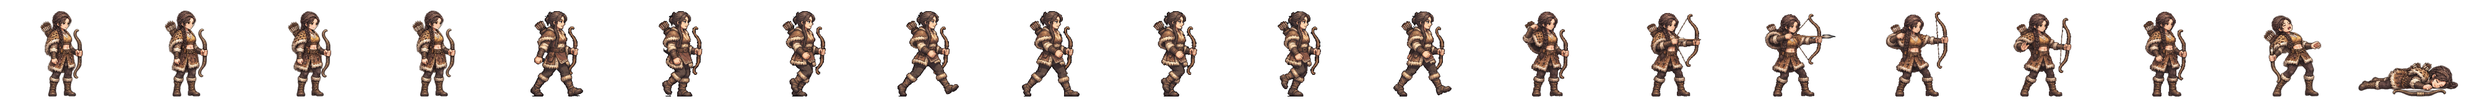
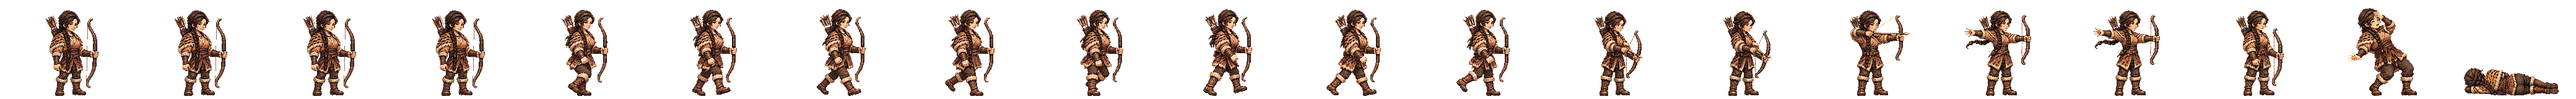
불래 박달 · 부여 다래 새 전투 띠를 게임에 (활 · 새 활 쏘기 · 맞음 네 칸 · 다래 개성 동작) · 박달은 개성 동작 거절이라 없이 · 맞음만 붙은 띠를 개성 동작으로 세던 검사 고침
Claude-Session: https://claude.ai/code/session_01TRiuN7s6aDfSnaHxrkctmU

Changed region(s): [[0.4688, 0.0938, 1.0, 0.9688], [0.0, 0.0938, 0.4375, 0.9688]]

diff --git a/src/realm/data/spritePx.ts b/src/realm/data/spritePx.ts
@@ -1,3 +1,3 @@
 /** public/realm/anim-px/manifest.json 의 사본 — tools/sprite-normalize.mjs 가 만든다 (손으로 고치지 말 것). 칸 [가로, 세로] · feet = 발 줄(칸 위에서 y) · bodyPx = 서 있는 몸 키 */
 import { expandManifest } from './sprite-manifest.ts'
-export const SPRITE_PX: Readonly<Record<string, { readonly cell: readonly [number, number]; readonly feet: number; readonly bodyPx: number; readonly kind: 'general' | 'soldier' | 'folk' | 'crowd'; readonly cells: number }>> = expandManifest<{ readonly cell: readonly [number, number]; readonly feet: number; readonly bodyPx: number; readonly kind: 'general' | 'soldier' | 'folk' | 'crowd'; readonly cells: number }>([{"cell":[166,128],"feet":126,"bodyPx":124,"kind":"soldier","cells":20},{"cell":[116,128],"feet":126,"bodyPx":117,"kind":"soldier","cells":20},{"cell":[127,128],"feet":126,"bodyPx":116,"kind":"soldier","cells":20},{"cell":[269,128],"feet":126,"bodyPx":126,"kind":"soldier","cells":20},{"cell":[503,128],"feet":126,"bodyPx":127,"kind":"soldier","cells":20},{"cell":[614,128],"feet":126,"bodyPx":126,"kind":"soldier","cells":20},{"cell":[200,160],"feet":156,"bodyPx":138,"kind":"general","cells":20},{"cell":[208,160],"feet":155,"bodyPx":138,"kind":"general","cells":20},{"cell":[208,160],"feet":154,"bodyPx":138,"kind":"general","cells":20},{"cell":[304,160],"feet":155,"bodyPx":135,"kind":"general","cells":20},{"cell":[184,160],"feet":156,"bodyPx":138,"kind":"general","cells":20},{"cell":[208,160],"feet":154,"bodyPx":136,"kind":"general","cells":20},{"cell":[232,160],"feet":156,"bodyPx":138,"kind":"general","cells":20},{"cell":[208,160],"feet":156,"bodyPx":138,"kind":"general","cells":20},{"cell":[168,160],"feet":156,"bodyPx":124,"kind":"general","cells":20},{"cell":[216,160],"feet":156,"bodyPx":130,"kind":"general","cells":20},{"cell":[200,160],"feet":156,"bodyPx":116,"kind":"general","cells":20},{"cell":[192,160],"feet":156,"bodyPx":138,"kind":"general","cells":20},{"cell":[200,160],"feet":156,"bodyPx":135,"kind":"general","cells":20},{"cell":[280,160],"feet":156,"bodyPx":138,"kind":"general","cells":20},{"cell":[232,160],"feet":156,"bodyPx":134,"kind":"general","cells":20},{"cell":[144,160],"feet":156,"bodyPx":70,"kind":"general","cells":20},{"cell":[208,160],"feet":156,"bodyPx":70,"kind":"general","cells":20},{"cell":[192,160],"feet":156,"bodyPx":70,"kind":"general","cells":20},{"cell":[240,160],"feet":155,"bodyPx":138,"kind":"general","cells":20},{"cell":[160,160],"feet":156,"bodyPx":135,"kind":"general","cells":20},{"cell":[192,160],"feet":156,"bodyPx":128,"kind":"general","cells":20},{"cell":[224,160],"feet":155,"bodyPx":138,"kind":"general","cells":20},{"cell":[216,160],"feet":156,"bodyPx":138,"kind":"general","cells":20},{"cell":[208,160],"feet":156,"bodyPx":134,"kind":"general","cells":20},{"cell":[176,160],"feet":156,"bodyPx":130,"kind":"general","cells":20},{"cell":[248,160],"feet":156,"bodyPx":138,"kind":"general","cells":20},{"cell":[248,160],"feet":155,"bodyPx":138,"kind":"general","cells":20},{"cell":[192,160],"feet":155,"bodyPx":138,"kind":"general","cells":20},{"cell":[192,160],"feet":156,"bodyPx":124,"kind":"general","cells":20},{"cell":[208,160],"feet":154,"bodyPx":131,"kind":"general","cells":20},{"cell":[256,160],"feet":156,"bodyPx":138,"kind":"general","cells":20},{"cell":[240,160],"feet":156,"bodyPx":138,"kind":"general","cells":20},{"cell":[232,160],"feet":156,"bodyPx":139,"kind":"general","cells":20},{"cell":[232,160],"feet":156,"bodyPx":73,"kind":"general","cells":20},{"cell":[208,160],"feet":154,"bodyPx":137,"kind":"general","cells":20},{"cell":[264,160],"feet":156,"bodyPx":138,"kind":"general","cells":20},{"cell":[224,160],"feet":156,"bodyPx":138,"kind":"general","cells":20},{"cell":[224,160],"feet":156,"bodyPx":128,"kind":"general","cells":20},{"cell":[176,160],"feet":156,"bodyPx":129,"kind":"general","cells":20},{"cell":[208,160],"feet":154,"bodyPx":139,"kind":"general","cells":20},{"cell":[232,160],"feet":155,"bodyPx":138,"kind":"general","cells":20},{"cell":[208,160],"feet":156,"bodyPx":132,"kind":"general","cells":20},{"cell":[184,160],"feet":156,"bodyPx":122,"kind":"general","cells":20},{"cell":[176,160],"feet":156,"bodyPx":138,"kind":"general","cells":20},{"cell":[280,160],"feet":155,"bodyPx":133,"kind":"general","cells":20},{"cell":[176,160],"feet":156,"bodyPx":70,"kind":"general","cells":20},{"cell":[186,128],"feet":126,"bodyPx":127,"kind":"soldier","cells":20},{"cell":[298,128],"feet":126,"bodyPx":126,"kind":"soldier","cells":20},{"cell":[82,128],"feet":126,"bodyPx":114,"kind":"folk","cells":8},{"cell":[134,128],"feet":126,"bodyPx":119,"kind":"soldier","cells":20},{"cell":[380,128],"feet":126,"bodyPx":124,"kind":"soldier","cells":20},{"cell":[114,128],"feet":126,"bodyPx":115,"kind":"soldier","cells":20},{"cell":[122,128],"feet":126,"bodyPx":114,"kind":"soldier","cells":20},{"cell":[254,128],"feet":126,"bodyPx":128,"kind":"soldier","cells":20},{"cell":[438,128],"feet":126,"bodyPx":126,"kind":"soldier","cells":20},{"cell":[88,128],"feet":126,"bodyPx":113,"kind":"folk","cells":8},{"cell":[100,128],"feet":126,"bodyPx":115,"kind":"folk","cells":8},{"cell":[108,128],"feet":126,"bodyPx":115,"kind":"folk","cells":8},{"cell":[63,128],"feet":126,"bodyPx":113,"kind":"folk","cells":8},{"cell":[69,96],"feet":96,"bodyPx":96,"kind":"crowd","cells":1},{"cell":[54,96],"feet":96,"bodyPx":96,"kind":"crowd","cells":1},{"cell":[47,96],"feet":96,"bodyPx":96,"kind":"crowd","cells":1},{"cell":[49,96],"feet":96,"bodyPx":96,"kind":"crowd","cells":1},{"cell":[57,96],"feet":96,"bodyPx":96,"kind":"crowd","cells":1},{"cell":[55,96],"feet":96,"bodyPx":96,"kind":"crowd","cells":1},{"cell":[45,96],"feet":96,"bodyPx":96,"kind":"crowd","cells":1},{"cell":[53,96],"feet":96,"bodyPx":96,"kind":"crowd","cells":1},{"cell":[64,96],"feet":96,"bodyPx":96,"kind":"crowd","cells":1},{"cell":[184,160],"feet":156,"bodyPx":124,"kind":"general","cells":20},{"cell":[184,160],"feet":156,"bodyPx":134,"kind":"general","cells":20},{"cell":[224,160],"feet":156,"bodyPx":133,"kind":"general","cells":20},{"cell":[192,160],"feet":156,"bodyPx":135,"kind":"general","cells":20},{"cell":[184,160],"feet":156,"bodyPx":137,"kind":"general","cells":20},{"cell":[216,160],"feet":156,"bodyPx":134,"kind":"general","cells":20},{"cell":[216,160],"feet":156,"bodyPx":132,"kind":"general","cells":20},{"cell":[288,160],"feet":156,"bodyPx":138,"kind":"general","cells":20},{"cell":[192,160],"feet":156,"bodyPx":118,"kind":"general","cells":20},{"cell":[208,160],"feet":154,"bodyPx":134,"kind":"general","cells":20},{"cell":[208,160],"feet":154,"bodyPx":128,"kind":"general","cells":20},{"cell":[240,160],"feet":156,"bodyPx":128,"kind":"general","cells":20},{"cell":[184,160],"feet":156,"bodyPx":132,"kind":"general","cells":20},{"cell":[208,160],"feet":156,"bodyPx":123,"kind":"general","cells":20},{"cell":[176,160],"feet":156,"bodyPx":116,"kind":"general","cells":20},{"cell":[272,160],"feet":156,"bodyPx":138,"kind":"general","cells":20},{"cell":[176,160],"feet":156,"bodyPx":122,"kind":"general","cells":20},{"cell":[232,160],"feet":156,"bodyPx":127,"kind":"general","cells":20},{"cell":[168,160],"feet":156,"bodyPx":138,"kind":"general","cells":20},{"cell":[176,160],"feet":156,"bodyPx":137,"kind":"general","cells":20},{"cell":[184,160],"feet":156,"bodyPx":133,"kind":"general","cells":20}],[["axe",0],["bandit-chief",1],["bandit-club",2],["boat",3],["bow",4],["crossbow",5],["gen-adogan",6],["gen-alpyeong",7],["gen-ara",8],["gen-areum",8],["gen-aryeong",9],["gen-bakdal",6],["gen-baram",8],["gen-bdanbi",10],["gen-beom",11],["gen-beombal",8],["gen-beomi",8],["gen-bira",12],["gen-biryu",13],["gen-budeul",8],["gen-byeol",8],["gen-daemusin",14],["gen-daeso",15],["gen-dallae2",10],["gen-dalli",8],["gen-damul",16],["gen-danbi",8],["gen-dangung",17],["gen-darae",18],["gen-dokmudeom",7],["gen-duman",19],["gen-eomni",8],["gen-eureum",20],["gen-g-bow",21],["gen-g-spear",22],["gen-g-sword",23],["gen-gaennae",6],["gen-gamsil",24],["gen-gaon",25],["gen-geota",13],["gen-geumbawi",10],["gen-geumha",26],["gen-goeun",13],["gen-gom",27],["gen-gomok",13],["gen-gureum",8],["gen-guryema",17],["gen-gwaeyu",12],["gen-haebi",8],["gen-haedal",6],["gen-haesol",8],["gen-halla",7],["gen-heo",8],["gen-hneoul",10],["gen-hogong",28],["gen-hojin",13],["gen-horselord",29],["gen-hwalmi",30],["gen-hyeokgeose",17],["gen-hyeopbo",6],["gen-irang",8],["gen-jibaekho",31],["gen-jinha",32],["gen-jita",33],["gen-jumong",34],["gen-keundol",7],["gen-maehwa",35],["gen-maenun",17],["gen-malgalgi",36],["gen-mari",37],["gen-maro",31],["gen-maryeo",13],["gen-mdallae",38],["gen-mir",6],["gen-mount",39],["gen-mulbeom",40],["gen-mulsae",40],["gen-musoe",28],["gen-noeul",8],["gen-nuri",41],["gen-ocheongan",42],["gen-odi",8],["gen-odogan",6],["gen-ogan",17],["gen-oi",43],["gen-olddaeso",20],["gen-onjo",44],["gen-pidogan",13],["gen-sagong",45],["gen-sdallae",6],["gen-sincheongan",28],["gen-singwigan",28],["gen-sinneoul",8],["gen-sobeol",46],["gen-soebi",6],["gen-soebo",47],["gen-soenun",45],["gen-sogeumbi",40],["gen-songbi",42],["gen-songyang",48],["gen-sori",49],["gen-soseono",50],["gen-suro",17],["gen-tahae",6],["gen-tneoul",8],["gen-w-bow",21],["gen-w-spear",51],["gen-waechief",13],["gen-wan",28],["gen-yeodogan",13],["gen-yucheongan",13],["gen-yusugan",31],["horse",52],["marine",53],["migrant",54],["militia",55],["pike",56],["pirate-captain",57],["pirate-sword",58],["shield",59],["spear",60],["villager-builder",61],["villager-farmer",62],["villager-porter",63],["villager-woman",64],["crowd-b1",65],["crowd-b2",66],["crowd-b3",67],["crowd-b4",68],["crowd-b5",69],["crowd-b6",70],["crowd-f1",65],["crowd-f2",70],["crowd-f3",71],["crowd-f4",72],["crowd-f5",65],["crowd-f6",73],["gen-dalbit",13],["gen-base-g-07-drunk-warrior",17],["gen-base-g-40-anya-adan",13],["gen-base-w-13-young-archer",8],["gen-base-g-03-sea-trader",37],["gen-base-w-10-pirate-captain",45],["gen-base-w-64-miri-dallae",45],["gen-base-g-41-goja-bau",37],["gen-base-g-42-dokro-garam",41],["gen-base-g-09-farmer-conscript",28],["gen-base-w-02-goguryeo-lady",28],["gen-base-w-17-mahan-pearl-diver",8],["gen-base-g-17-saro-isageum",47],["gen-base-g-18-daegaya-king",74],["gen-base-g-35-dabeol-dalgu",13],["gen-base-g-19-sabeol-veteran",28],["gen-base-w-23-usisan-whale-queen",8],["gen-base-g-36-gammun-gamdol",42],["gen-base-g-20-samul-sea-lord",36],["gen-base-g-37-eumjeup-jeup",10],["gen-base-g-38-chopal-palmae",17],["gen-base-w-75-daegaya-soemoe",17],["gen-base-g-45-dabeol-deulgae",10],["gen-base-g-04-jinhan-giant",13],["gen-base-g-08-veteran",13],["gen-base-w-18-jinhan-salt-widow",8],["gen-base-w-12-court-dancer",75],["gen-base-w-83-gyeonji-beodeul",76],["gen-base-w-05-baekje-queen",77],["gen-base-w-21-baekje-court-dancer",10],["gen-base-g-01-master-smith",78],["gen-base-g-93-jomun-solgae",30],["gen-base-g-57-bihwa-neup",37],["gen-base-w-72-eumjeup-beol",8],["gen-base-w-102-garak-dana",45],["gen-base-g-68-baekje-onnuri",13],["gen-base-w-27-mokji-jinha",6],["gen-base-g-22-ungcheon-gomnae",6],["gen-base-g-23-sangdang-soedal",13],["gen-base-g-24-wansan-onsan",6],["gen-base-g-25-balla-keunmoe",28],["gen-base-g-61-heomcheuk-bawi",28],["gen-base-g-88-wander-soeul",42],["gen-base-w-14-feast-spy",6],["gen-base-g-12-silla-youth",79],["gen-base-w-08-mahan-warrior",8],["gen-base-g-62-beonye-hanul",37],["gen-base-g-63-heomcheuk-beogeum",13],["gen-base-g-84-wander-seoneul",13],["gen-base-w-50-siljik-mulga",28],["gen-base-g-46-uga-nureongso",28],["gen-base-w-80-usan-gangchi",45],["gen-base-g-47-guga-sanyanggae",28],["gen-base-w-76-gampyeong-baetsagong",8],["gen-base-g-05-mahan-chieftain",80],["gen-base-g-58-usan-uhae",13],["gen-base-g-27-maek-maekdol",13],["gen-base-w-53-hwanna-gabi",45],["gen-base-w-29-golpo-janmul",31],["gen-base-g-53-baekje-haeru",6],["gen-base-w-71-yeonna-neoul",8],["gen-base-w-79-yangmaek-solmae",8],["gen-base-w-34-chopal-deulme",8],["gen-base-g-44-maga-malgup",81],["gen-base-w-31-dabeol-dalbit",45],["gen-base-g-51-biryuna-mulgyeol",42],["gen-base-g-48-gwanna-musoe",13],["gen-base-g-32-uga-sodu",12],["gen-base-g-49-goguryeo-sona",82],["gen-base-g-30-gwanna-soemoe",42],["gen-base-g-52-tamna-oreum",10],["gen-base-g-29-yeonna-myeongsol",34],["gen-base-w-56-dongokjeo-sogeum",83],["gen-base-g-54-mokji-mahan",12],["gen-base-g-33-jeoga-metdol",17],["gen-base-w-36-baekje-maena",8],["gen-base-w-38-sangdang-bulmae",6],["gen-base-w-39-gosaburi-galmae",8],["gen-base-w-40-mujin-munui",47],["gen-base-w-41-hwanna-beodeul",84],["gen-base-w-43-uga-nuri",36],["gen-base-w-45-tamna-oreumbi",10],["gen-base-g-60-golbeol-golgae",10],["gen-base-g-61-apdok-ap",28],["gen-base-g-62-gammun-gamnamu",6],["gen-base-g-63-chopal-yeoul",31],["gen-base-g-64-michuhol-sogeumkkun",37],["gen-base-g-65-sangdang-soemangchi",42],["gen-base-g-66-geonma-malbalgup",85],["gen-base-g-67-gosaburi-buri",86],["gen-base-g-68-mujin-bitgoeul",10],["gen-base-g-69-goryong-yong",42],["gen-base-g-70-siljik-pado",37],["gen-base-w-81-byeokjin-byeolbit",8],["gen-base-w-46-geonma-maru",8],["gen-base-w-48-mujin-mudeung",8],["gen-base-g-26-gampyeong-gaetbeol",12],["gen-base-g-60-eupcha-hangyeol",87],["gen-base-g-15-shaman-man",28],["gen-base-g-85-wander-ure",31],["gen-base-g-43-hwanna-amnok",13],["gen-base-g-50-bullae-gwaha",77],["gen-base-g-55-saro-bakdal",13],["gen-base-g-56-haseulla-gwahama",6],["gen-base-w-06-buyeo-huntress",40],["gen-base-w-22-dongye-tiger-huntress",8],["gen-base-w-25-bihwa-priestess",28],["gen-base-w-24-apdok-queen",10],["gen-base-w-61-iseo-sinae",13],["gen-base-w-26-iseo-tomboy-general",8],["gen-base-g-59-yangmaek-maekson",88],["gen-aw1-haebi",42],["gen-aw1-soseono",89],["gen-aw1-gamsil",10],["gen-aw1-mir",49],["gen-aw1-dangung",6],["gen-aw1-ara",42],["gen-aw1-jumong",90],["gen-aw1-onjo",91],["gen-aw1-base-w-83-gyeonji-beodeul",17],["gen-aw1-heo",41],["gen-aw1-base-g-38-chopal-palmae",6],["gen-aw1-base-w-25-bihwa-priestess",75],["gen-aw1-sori",92],["gen-aw1-gomok",6],["gen-aw1-irang",17],["gen-aw1-budeul",92],["gen-aw1-gom",37],["gen-aw1-sdallae",6],["gen-aw1-base-w-13-young-archer",6],["gen-aw1-base-w-36-baekje-maena",93],["gen-aw1-base-g-09-farmer-conscript",41],["gen-aw1-base-w-02-goguryeo-lady",94],["gen-aw1-haedal",10],["gen-aw1-hogong",6],["gen-aw1-maehwa",49],["gen-aw1-base-w-06-buyeo-huntress",12],["gen-aw1-base-w-08-mahan-warrior",42],["gen-aw1-base-w-29-golpo-janmul",42],["gen-aw1-base-w-31-dabeol-dalbit",17],["gen-aw1-base-w-38-sangdang-bulmae",92],["gen-aw1-bira",28],["gen-aw1-base-w-53-hwanna-gabi",92],["gen-aw1-base-w-56-dongokjeo-sogeum",49],["gen-aw1-base-w-72-eumjeup-beol",17],["gen-aw1-bdanbi",92],["gen-aw1-beom",10],["gen-aw1-beombal",10],["gen-aw1-byeol",17],["gen-aw1-dalli",49],["gen-aw1-malgalgi",31],["gen-aw1-sincheongan",28]])
+export const SPRITE_PX: Readonly<Record<string, { readonly cell: readonly [number, number]; readonly feet: number; readonly bodyPx: number; readonly kind: 'general' | 'soldier' | 'folk' | 'crowd'; readonly cells: number }>> = expandManifest<{ readonly cell: readonly [number, number]; readonly feet: number; readonly bodyPx: number; readonly kind: 'general' | 'soldier' | 'folk' | 'crowd'; readonly cells: number }>([{"cell":[166,128],"feet":126,"bodyPx":124,"kind":"soldier","cells":20},{"cell":[116,128],"feet":126,"bodyPx":117,"kind":"soldier","cells":20},{"cell":[127,128],"feet":126,"bodyPx":116,"kind":"soldier","cells":20},{"cell":[269,128],"feet":126,"bodyPx":126,"kind":"soldier","cells":20},{"cell":[503,128],"feet":126,"bodyPx":127,"kind":"soldier","cells":20},{"cell":[614,128],"feet":126,"bodyPx":126,"kind":"soldier","cells":20},{"cell":[200,160],"feet":156,"bodyPx":138,"kind":"general","cells":20},{"cell":[208,160],"feet":155,"bodyPx":138,"kind":"general","cells":20},{"cell":[208,160],"feet":154,"bodyPx":138,"kind":"general","cells":20},{"cell":[304,160],"feet":155,"bodyPx":135,"kind":"general","cells":20},{"cell":[184,160],"feet":156,"bodyPx":138,"kind":"general","cells":20},{"cell":[208,160],"feet":154,"bodyPx":136,"kind":"general","cells":20},{"cell":[232,160],"feet":156,"bodyPx":138,"kind":"general","cells":20},{"cell":[208,160],"feet":156,"bodyPx":138,"kind":"general","cells":20},{"cell":[168,160],"feet":156,"bodyPx":124,"kind":"general","cells":20},{"cell":[216,160],"feet":156,"bodyPx":130,"kind":"general","cells":20},{"cell":[200,160],"feet":156,"bodyPx":116,"kind":"general","cells":20},{"cell":[192,160],"feet":156,"bodyPx":138,"kind":"general","cells":20},{"cell":[208,160],"feet":154,"bodyPx":135,"kind":"general","cells":20},{"cell":[280,160],"feet":156,"bodyPx":138,"kind":"general","cells":20},{"cell":[232,160],"feet":156,"bodyPx":134,"kind":"general","cells":20},{"cell":[144,160],"feet":156,"bodyPx":70,"kind":"general","cells":20},{"cell":[208,160],"feet":156,"bodyPx":70,"kind":"general","cells":20},{"cell":[192,160],"feet":156,"bodyPx":70,"kind":"general","cells":20},{"cell":[240,160],"feet":155,"bodyPx":138,"kind":"general","cells":20},{"cell":[160,160],"feet":156,"bodyPx":135,"kind":"general","cells":20},{"cell":[192,160],"feet":156,"bodyPx":128,"kind":"general","cells":20},{"cell":[224,160],"feet":155,"bodyPx":138,"kind":"general","cells":20},{"cell":[216,160],"feet":156,"bodyPx":138,"kind":"general","cells":20},{"cell":[208,160],"feet":156,"bodyPx":134,"kind":"general","cells":20},{"cell":[176,160],"feet":156,"bodyPx":130,"kind":"general","cells":20},{"cell":[248,160],"feet":156,"bodyPx":138,"kind":"general","cells":20},{"cell":[248,160],"feet":155,"bodyPx":138,"kind":"general","cells":20},{"cell":[192,160],"feet":155,"bodyPx":138,"kind":"general","cells":20},{"cell":[192,160],"feet":156,"bodyPx":124,"kind":"general","cells":20},{"cell":[208,160],"feet":154,"bodyPx":131,"kind":"general","cells":20},{"cell":[256,160],"feet":156,"bodyPx":138,"kind":"general","cells":20},{"cell":[240,160],"feet":156,"bodyPx":138,"kind":"general","cells":20},{"cell":[232,160],"feet":156,"bodyPx":139,"kind":"general","cells":20},{"cell":[232,160],"feet":156,"bodyPx":73,"kind":"general","cells":20},{"cell":[208,160],"feet":154,"bodyPx":137,"kind":"general","cells":20},{"cell":[264,160],"feet":156,"bodyPx":138,"kind":"general","cells":20},{"cell":[224,160],"feet":156,"bodyPx":138,"kind":"general","cells":20},{"cell":[224,160],"feet":156,"bodyPx":128,"kind":"general","cells":20},{"cell":[176,160],"feet":156,"bodyPx":129,"kind":"general","cells":20},{"cell":[208,160],"feet":154,"bodyPx":139,"kind":"general","cells":20},{"cell":[232,160],"feet":155,"bodyPx":138,"kind":"general","cells":20},{"cell":[208,160],"feet":156,"bodyPx":132,"kind":"general","cells":20},{"cell":[184,160],"feet":156,"bodyPx":122,"kind":"general","cells":20},{"cell":[176,160],"feet":156,"bodyPx":138,"kind":"general","cells":20},{"cell":[280,160],"feet":155,"bodyPx":133,"kind":"general","cells":20},{"cell":[176,160],"feet":156,"bodyPx":70,"kind":"general","cells":20},{"cell":[186,128],"feet":126,"bodyPx":127,"kind":"soldier","cells":20},{"cell":[298,128],"feet":126,"bodyPx":126,"kind":"soldier","cells":20},{"cell":[82,128],"feet":126,"bodyPx":114,"kind":"folk","cells":8},{"cell":[134,128],"feet":126,"bodyPx":119,"kind":"soldier","cells":20},{"cell":[380,128],"feet":126,"bodyPx":124,"kind":"soldier","cells":20},{"cell":[114,128],"feet":126,"bodyPx":115,"kind":"soldier","cells":20},{"cell":[122,128],"feet":126,"bodyPx":114,"kind":"soldier","cells":20},{"cell":[254,128],"feet":126,"bodyPx":128,"kind":"soldier","cells":20},{"cell":[438,128],"feet":126,"bodyPx":126,"kind":"soldier","cells":20},{"cell":[88,128],"feet":126,"bodyPx":113,"kind":"folk","cells":8},{"cell":[100,128],"feet":126,"bodyPx":115,"kind":"folk","cells":8},{"cell":[108,128],"feet":126,"bodyPx":115,"kind":"folk","cells":8},{"cell":[63,128],"feet":126,"bodyPx":113,"kind":"folk","cells":8},{"cell":[69,96],"feet":96,"bodyPx":96,"kind":"crowd","cells":1},{"cell":[54,96],"feet":96,"bodyPx":96,"kind":"crowd","cells":1},{"cell":[47,96],"feet":96,"bodyPx":96,"kind":"crowd","cells":1},{"cell":[49,96],"feet":96,"bodyPx":96,"kind":"crowd","cells":1},{"cell":[57,96],"feet":96,"bodyPx":96,"kind":"crowd","cells":1},{"cell":[55,96],"feet":96,"bodyPx":96,"kind":"crowd","cells":1},{"cell":[45,96],"feet":96,"bodyPx":96,"kind":"crowd","cells":1},{"cell":[53,96],"feet":96,"bodyPx":96,"kind":"crowd","cells":1},{"cell":[64,96],"feet":96,"bodyPx":96,"kind":"crowd","cells":1},{"cell":[184,160],"feet":156,"bodyPx":124,"kind":"general","cells":20},{"cell":[184,160],"feet":156,"bodyPx":134,"kind":"general","cells":20},{"cell":[224,160],"feet":156,"bodyPx":133,"kind":"general","cells":20},{"cell":[192,160],"feet":156,"bodyPx":135,"kind":"general","cells":20},{"cell":[184,160],"feet":156,"bodyPx":137,"kind":"general","cells":20},{"cell":[216,160],"feet":156,"bodyPx":134,"kind":"general","cells":20},{"cell":[216,160],"feet":156,"bodyPx":132,"kind":"general","cells":20},{"cell":[288,160],"feet":156,"bodyPx":138,"kind":"general","cells":20},{"cell":[192,160],"feet":156,"bodyPx":118,"kind":"general","cells":20},{"cell":[208,160],"feet":154,"bodyPx":134,"kind":"general","cells":20},{"cell":[208,160],"feet":154,"bodyPx":128,"kind":"general","cells":20},{"cell":[240,160],"feet":156,"bodyPx":128,"kind":"general","cells":20},{"cell":[184,160],"feet":156,"bodyPx":132,"kind":"general","cells":20},{"cell":[208,160],"feet":156,"bodyPx":123,"kind":"general","cells":20},{"cell":[176,160],"feet":156,"bodyPx":116,"kind":"general","cells":20},{"cell":[272,160],"feet":156,"bodyPx":138,"kind":"general","cells":20},{"cell":[176,160],"feet":156,"bodyPx":122,"kind":"general","cells":20},{"cell":[232,160],"feet":156,"bodyPx":127,"kind":"general","cells":20},{"cell":[168,160],"feet":156,"bodyPx":138,"kind":"general","cells":20},{"cell":[176,160],"feet":156,"bodyPx":137,"kind":"general","cells":20},{"cell":[184,160],"feet":156,"bodyPx":133,"kind":"general","cells":20}],[["axe",0],["bandit-chief",1],["bandit-club",2],["boat",3],["bow",4],["crossbow",5],["gen-adogan",6],["gen-alpyeong",7],["gen-ara",8],["gen-areum",8],["gen-aryeong",9],["gen-bakdal",8],["gen-baram",8],["gen-bdanbi",10],["gen-beom",11],["gen-beombal",8],["gen-beomi",8],["gen-bira",12],["gen-biryu",13],["gen-budeul",8],["gen-byeol",8],["gen-daemusin",14],["gen-daeso",15],["gen-dallae2",10],["gen-dalli",8],["gen-damul",16],["gen-danbi",8],["gen-dangung",17],["gen-darae",18],["gen-dokmudeom",7],["gen-duman",19],["gen-eomni",8],["gen-eureum",20],["gen-g-bow",21],["gen-g-spear",22],["gen-g-sword",23],["gen-gaennae",6],["gen-gamsil",24],["gen-gaon",25],["gen-geota",13],["gen-geumbawi",10],["gen-geumha",26],["gen-goeun",13],["gen-gom",27],["gen-gomok",13],["gen-gureum",8],["gen-guryema",17],["gen-gwaeyu",12],["gen-haebi",8],["gen-haedal",6],["gen-haesol",8],["gen-halla",7],["gen-heo",8],["gen-hneoul",10],["gen-hogong",28],["gen-hojin",13],["gen-horselord",29],["gen-hwalmi",30],["gen-hyeokgeose",17],["gen-hyeopbo",6],["gen-irang",8],["gen-jibaekho",31],["gen-jinha",32],["gen-jita",33],["gen-jumong",34],["gen-keundol",7],["gen-maehwa",35],["gen-maenun",17],["gen-malgalgi",36],["gen-mari",37],["gen-maro",31],["gen-maryeo",13],["gen-mdallae",38],["gen-mir",6],["gen-mount",39],["gen-mulbeom",40],["gen-mulsae",40],["gen-musoe",28],["gen-noeul",8],["gen-nuri",41],["gen-ocheongan",42],["gen-odi",8],["gen-odogan",6],["gen-ogan",17],["gen-oi",43],["gen-olddaeso",20],["gen-onjo",44],["gen-pidogan",13],["gen-sagong",45],["gen-sdallae",6],["gen-sincheongan",28],["gen-singwigan",28],["gen-sinneoul",8],["gen-sobeol",46],["gen-soebi",6],["gen-soebo",47],["gen-soenun",45],["gen-sogeumbi",40],["gen-songbi",42],["gen-songyang",48],["gen-sori",49],["gen-soseono",50],["gen-suro",17],["gen-tahae",6],["gen-tneoul",8],["gen-w-bow",21],["gen-w-spear",51],["gen-waechief",13],["gen-wan",28],["gen-yeodogan",13],["gen-yucheongan",13],["gen-yusugan",31],["horse",52],["marine",53],["migrant",54],["militia",55],["pike",56],["pirate-captain",57],["pirate-sword",58],["shield",59],["spear",60],["villager-builder",61],["villager-farmer",62],["villager-porter",63],["villager-woman",64],["crowd-b1",65],["crowd-b2",66],["crowd-b3",67],["crowd-b4",68],["crowd-b5",69],["crowd-b6",70],["crowd-f1",65],["crowd-f2",70],["crowd-f3",71],["crowd-f4",72],["crowd-f5",65],["crowd-f6",73],["gen-dalbit",13],["gen-base-g-07-drunk-warrior",17],["gen-base-g-40-anya-adan",13],["gen-base-w-13-young-archer",8],["gen-base-g-03-sea-trader",37],["gen-base-w-10-pirate-captain",45],["gen-base-w-64-miri-dallae",45],["gen-base-g-41-goja-bau",37],["gen-base-g-42-dokro-garam",41],["gen-base-g-09-farmer-conscript",28],["gen-base-w-02-goguryeo-lady",28],["gen-base-w-17-mahan-pearl-diver",8],["gen-base-g-17-saro-isageum",47],["gen-base-g-18-daegaya-king",74],["gen-base-g-35-dabeol-dalgu",13],["gen-base-g-19-sabeol-veteran",28],["gen-base-w-23-usisan-whale-queen",8],["gen-base-g-36-gammun-gamdol",42],["gen-base-g-20-samul-sea-lord",36],["gen-base-g-37-eumjeup-jeup",10],["gen-base-g-38-chopal-palmae",17],["gen-base-w-75-daegaya-soemoe",17],["gen-base-g-45-dabeol-deulgae",10],["gen-base-g-04-jinhan-giant",13],["gen-base-g-08-veteran",13],["gen-base-w-18-jinhan-salt-widow",8],["gen-base-w-12-court-dancer",75],["gen-base-w-83-gyeonji-beodeul",76],["gen-base-w-05-baekje-queen",77],["gen-base-w-21-baekje-court-dancer",10],["gen-base-g-01-master-smith",78],["gen-base-g-93-jomun-solgae",30],["gen-base-g-57-bihwa-neup",37],["gen-base-w-72-eumjeup-beol",8],["gen-base-w-102-garak-dana",45],["gen-base-g-68-baekje-onnuri",13],["gen-base-w-27-mokji-jinha",6],["gen-base-g-22-ungcheon-gomnae",6],["gen-base-g-23-sangdang-soedal",13],["gen-base-g-24-wansan-onsan",6],["gen-base-g-25-balla-keunmoe",28],["gen-base-g-61-heomcheuk-bawi",28],["gen-base-g-88-wander-soeul",42],["gen-base-w-14-feast-spy",6],["gen-base-g-12-silla-youth",79],["gen-base-w-08-mahan-warrior",8],["gen-base-g-62-beonye-hanul",37],["gen-base-g-63-heomcheuk-beogeum",13],["gen-base-g-84-wander-seoneul",13],["gen-base-w-50-siljik-mulga",28],["gen-base-g-46-uga-nureongso",28],["gen-base-w-80-usan-gangchi",45],["gen-base-g-47-guga-sanyanggae",28],["gen-base-w-76-gampyeong-baetsagong",8],["gen-base-g-05-mahan-chieftain",80],["gen-base-g-58-usan-uhae",13],["gen-base-g-27-maek-maekdol",13],["gen-base-w-53-hwanna-gabi",45],["gen-base-w-29-golpo-janmul",31],["gen-base-g-53-baekje-haeru",6],["gen-base-w-71-yeonna-neoul",8],["gen-base-w-79-yangmaek-solmae",8],["gen-base-w-34-chopal-deulme",8],["gen-base-g-44-maga-malgup",81],["gen-base-w-31-dabeol-dalbit",45],["gen-base-g-51-biryuna-mulgyeol",42],["gen-base-g-48-gwanna-musoe",13],["gen-base-g-32-uga-sodu",12],["gen-base-g-49-goguryeo-sona",82],["gen-base-g-30-gwanna-soemoe",42],["gen-base-g-52-tamna-oreum",10],["gen-base-g-29-yeonna-myeongsol",34],["gen-base-w-56-dongokjeo-sogeum",83],["gen-base-g-54-mokji-mahan",12],["gen-base-g-33-jeoga-metdol",17],["gen-base-w-36-baekje-maena",8],["gen-base-w-38-sangdang-bulmae",6],["gen-base-w-39-gosaburi-galmae",8],["gen-base-w-40-mujin-munui",47],["gen-base-w-41-hwanna-beodeul",84],["gen-base-w-43-uga-nuri",36],["gen-base-w-45-tamna-oreumbi",10],["gen-base-g-60-golbeol-golgae",10],["gen-base-g-61-apdok-ap",28],["gen-base-g-62-gammun-gamnamu",6],["gen-base-g-63-chopal-yeoul",31],["gen-base-g-64-michuhol-sogeumkkun",37],["gen-base-g-65-sangdang-soemangchi",42],["gen-base-g-66-geonma-malbalgup",85],["gen-base-g-67-gosaburi-buri",86],["gen-base-g-68-mujin-bitgoeul",10],["gen-base-g-69-goryong-yong",42],["gen-base-g-70-siljik-pado",37],["gen-base-w-81-byeokjin-byeolbit",8],["gen-base-w-46-geonma-maru",8],["gen-base-w-48-mujin-mudeung",8],["gen-base-g-26-gampyeong-gaetbeol",12],["gen-base-g-60-eupcha-hangyeol",87],["gen-base-g-15-shaman-man",28],["gen-base-g-85-wander-ure",31],["gen-base-g-43-hwanna-amnok",13],["gen-base-g-50-bullae-gwaha",77],["gen-base-g-55-saro-bakdal",13],["gen-base-g-56-haseulla-gwahama",6],["gen-base-w-06-buyeo-huntress",40],["gen-base-w-22-dongye-tiger-huntress",8],["gen-base-w-25-bihwa-priestess",28],["gen-base-w-24-apdok-queen",10],["gen-base-w-61-iseo-sinae",13],["gen-base-w-26-iseo-tomboy-general",8],["gen-base-g-59-yangmaek-maekson",88],["gen-aw1-haebi",42],["gen-aw1-soseono",89],["gen-aw1-gamsil",10],["gen-aw1-mir",49],["gen-aw1-dangung",6],["gen-aw1-ara",42],["gen-aw1-jumong",90],["gen-aw1-onjo",91],["gen-aw1-base-w-83-gyeonji-beodeul",17],["gen-aw1-heo",41],["gen-aw1-base-g-38-chopal-palmae",6],["gen-aw1-base-w-25-bihwa-priestess",75],["gen-aw1-sori",92],["gen-aw1-gomok",6],["gen-aw1-irang",17],["gen-aw1-budeul",92],["gen-aw1-gom",37],["gen-aw1-sdallae",6],["gen-aw1-base-w-13-young-archer",6],["gen-aw1-base-w-36-baekje-maena",93],["gen-aw1-base-g-09-farmer-conscript",41],["gen-aw1-base-w-02-goguryeo-lady",94],["gen-aw1-haedal",10],["gen-aw1-hogong",6],["gen-aw1-maehwa",49],["gen-aw1-base-w-06-buyeo-huntress",12],["gen-aw1-base-w-08-mahan-warrior",42],["gen-aw1-base-w-29-golpo-janmul",42],["gen-aw1-base-w-31-dabeol-dalbit",17],["gen-aw1-base-w-38-sangdang-bulmae",92],["gen-aw1-bira",28],["gen-aw1-base-w-53-hwanna-gabi",92],["gen-aw1-base-w-56-dongokjeo-sogeum",49],["gen-aw1-base-w-72-eumjeup-beol",17],["gen-aw1-bdanbi",92],["gen-aw1-beom",10],["gen-aw1-beombal",10],["gen-aw1-byeol",17],["gen-aw1-dalli",49],["gen-aw1-malgalgi",31],["gen-aw1-sincheongan",28]])

diff --git a/src/duel/view.ts b/src/duel/view.ts
@@ -100,7 +100,7 @@ const crowdFront = [1, 2, 3, 4, 5, 6].map((i) => img(`realm/duel/crowd/b${i}.png
 const crowdReady = (set: HTMLImageElement[]): boolean => set.every((im) => im.complete && im.naturalWidth > 0)
 const pxMode = cfg.px !== false && params.get('px') !== '0'
 /** 겨루기 전용 옛 띠(duel/sprites) 대신 열전과 같은 도트 띠(anim-px)를 쓰는 장수 — 두 판에서 같은 모습 · 서기 계획·쓰러지는 칸도 같다 (11-23 범 · 매화 · 달빛 · 11-24 해비 · 아룸) */
-const PX_DUEL: ReadonlySet<string> = new Set(['beom', 'maehwa', 'base-w-31-dabeol-dalbit', 'haebi', 'areum', 'base-w-13-young-archer', 'base-w-10-pirate-captain', 'base-w-17-mahan-pearl-diver', 'base-w-06-buyeo-huntress', 'base-w-64-miri-dallae', 'ara', 'base-w-22-dongye-tiger-huntress', 'noeul', 'sagong', 'sinneoul', 'heo', 'base-w-08-mahan-warrior', 'base-w-23-usisan-whale-queen', 'base-w-26-iseo-tomboy-general', 'base-w-72-eumjeup-beol', 'tneoul', 'odi', 'base-w-76-gampyeong-baetsagong', 'base-w-34-chopal-deulme', 'base-w-102-garak-dana', 'base-w-36-baekje-maena', 'base-w-56-dongokjeo-sogeum', 'budeul', 'base-w-53-hwanna-gabi', 'base-w-18-jinhan-salt-widow', 'beombal', 'irang', 'sogeumbi', 'baram', 'byeol', 'base-w-71-yeonna-neoul', 'base-w-39-gosaburi-galmae', 'base-w-41-hwanna-beodeul', 'base-w-79-yangmaek-solmae', 'base-w-46-geonma-maru', 'base-w-48-mujin-mudeung', 'base-w-80-usan-gangchi', 'base-w-81-byeokjin-byeolbit', 'beomi', 'danbi', 'dalli', 'gureum', 'haesol', 'soenun', 'eomni', 'mulbeom', 'mulsae'])
+const PX_DUEL: ReadonlySet<string> = new Set(['beom', 'maehwa', 'base-w-31-dabeol-dalbit', 'haebi', 'areum', 'base-w-13-young-archer', 'base-w-10-pirate-captain', 'base-w-17-mahan-pearl-diver', 'base-w-06-buyeo-huntress', 'base-w-64-miri-dallae', 'ara', 'base-w-22-dongye-tiger-huntress', 'noeul', 'sagong', 'sinneoul', 'heo', 'base-w-08-mahan-warrior', 'base-w-23-usisan-whale-queen', 'base-w-26-iseo-tomboy-general', 'base-w-72-eumjeup-beol', 'tneoul', 'odi', 'base-w-76-gampyeong-baetsagong', 'base-w-34-chopal-deulme', 'base-w-102-garak-dana', 'base-w-36-baekje-maena', 'base-w-56-dongokjeo-sogeum', 'budeul', 'base-w-53-hwanna-gabi', 'base-w-18-jinhan-salt-widow', 'beombal', 'irang', 'sogeumbi', 'baram', 'byeol', 'base-w-71-yeonna-neoul', 'base-w-39-gosaburi-galmae', 'base-w-41-hwanna-beodeul', 'base-w-79-yangmaek-solmae', 'base-w-46-geonma-maru', 'base-w-48-mujin-mudeung', 'base-w-80-usan-gangchi', 'base-w-81-byeokjin-byeolbit', 'beomi', 'danbi', 'dalli', 'gureum', 'haesol', 'soenun', 'eomni', 'mulbeom', 'mulsae', 'bakdal', 'darae'])
 /** 띠 그림 — 기본은 anim-px(도트 규격) 먼저, 없으면 옛 띠로 (img 의 onerror 가 갈아 끼운다) */
 const strip = (s: string): HTMLImageElement => pxMode
   ? DUEL_ATLASES[s] !== undefined && !PX_DUEL.has(s) ? img(`realm/duel/sprites/gen-${s}.png`, `realm/anim-px/gen-${s}.png`)

diff --git a/src/tune/params.ts b/src/tune/params.ts
@@ -1471,6 +1471,8 @@ export const HAEBI_IDLE = {
     eomni: { cells: 38, base: [0, 1], hold: 2.4, fall: [18, 20, 21, 19], quirk: [22, 23, 24, 25], quirkTimes: [.3, .32, .4, .28], attack: { cells: [26, 27, 28, 29, 30, 31, 32, 33], times: [.09, .08, .11, .12, .12, .08, .08, .12], hit: 3 }, hurt: [34, 35], rise: [36, 37], xGeom: { h: 224, root: 92, foot: 216 } },
     mulbeom: { cells: 38, base: [0, 1], hold: 2.4, fall: [18, 20, 21, 19], quirk: [22, 23, 24, 25], quirkTimes: [.3, .32, .4, .28], attack: { cells: [26, 27, 28, 29, 30, 31, 32, 33], times: [.09, .08, .11, .12, .12, .08, .08, .12], hit: 3 }, hurt: [34, 35], rise: [36, 37], xGeom: { h: 224, root: 92, foot: 216 } },
     mulsae: { cells: 38, base: [0, 1], hold: 2.4, fall: [18, 20, 21, 19], quirk: [22, 23, 24, 25], quirkTimes: [.3, .32, .4, .28], attack: { cells: [26, 27, 28, 29, 30, 31, 32, 33], times: [.09, .08, .11, .12, .12, .08, .08, .12], hit: 3 }, hurt: [34, 35], rise: [36, 37], xGeom: { h: 224, root: 92, foot: 216 } },
+    bakdal: { cells: 26, base: [0, 1], hold: 2.4, fall: [18, 20, 21, 19], hurt: [22, 23], rise: [24, 25] },
+    darae: { cells: 30, base: [0, 1], hold: 2.4, fall: [18, 20, 21, 19], quirk: [22, 23, 24, 25], quirkTimes: [.28, .3, .42, .25], hurt: [26, 27], rise: [28, 29] },
   },
 } as const
 export const HAEBI_ANIM = {

diff --git a/src/raid/hero-hd.ts b/src/raid/hero-hd.ts
@@ -12,7 +12,6 @@ export const HERO_HD: Readonly<Record<string, string>> = {
   'anim-px/gen-base-w-45-tamna-oreumbi.png': 'anim-px/gen-base-w-45-tamna-oreumbi_hd.png',
   'anim-px/gen-base-w-43-uga-nuri.png': 'anim-px/gen-base-w-43-uga-nuri_hd.png',
   'anim-px/gen-base-w-40-mujin-munui.png': 'anim-px/gen-base-w-40-mujin-munui_hd.png',
-  'anim-px/gen-bakdal.png': 'anim-px/gen-bakdal_hd.png',
   'anim-px/gen-aw1-base-w-83-gyeonji-beodeul.png': 'anim-px/gen-aw1-base-w-83-gyeonji-beodeul_hd.png',
   'anim-px/gen-aw1-base-w-72-eumjeup-beol.png': 'anim-px/gen-aw1-base-w-72-eumjeup-beol_hd.png',
   'anim-px/gen-aw1-base-w-56-dongokjeo-sogeum.png': 'anim-px/gen-aw1-base-w-56-dongokjeo-sogeum_hd.png',

diff --git a/tools/sprite-kit/anim-harness.py b/tools/sprite-kit/anim-harness.py
@@ -68,6 +68,11 @@ HEROES = {
     'solmae': dict(strip='gen-base-w-79-yangmaek-solmae', atk='bow', atk8=False),   # 양맥 솔매(활 · 가슴 M) · API
     'dalli': dict(strip='gen-dalli', atk='bow', atk8=False),   # 마가 달리(활 · 우람한 뼈대) · API
     'danbi': dict(strip='gen-danbi', atk='bow', atk8=False),   # 사로 단비(활 · 가는 뼈대 → M 장면) · API
+    'bakdal': dict(hit=True, strip='gen-bakdal', atk='bow', atk8=False),   # 불래 박달(활 · 가슴 M) · 아홉째 묶음
+    'darae': dict(hit=True, strip='gen-darae', atk='bow', atk8=False),   # 부여 다래(활 · 가슴 M) · 아홉째 묶음
+    'haedal': dict(strip='gen-haedal', atk='bow', atk8=False),   # 부여 해달(활 · 가슴 M) · 아홉째 묶음
+    'hwalmi': dict(strip='gen-hwalmi', atk='bow', atk8=False),   # 고구려 활미(활 · 가슴 M) · 아홉째 묶음
+    'wan': dict(strip='gen-wan', atk='bow', atk8=False),   # 완산 완(활 · 가슴 M) · 아홉째 묶음
     'sogeum': dict(hit=True, strip='gen-base-w-56-dongokjeo-sogeum', atk='slash', atk8=True, act=True, legacy=(('a', 1), ('a', 3), ('b', 2), ('b', 4))),   # 동옥저 소금 상인(단검 · 가슴 XL) · 좁은 칸은 아라처럼 덜 뻗은 칸
     'budeul': dict(hit=True, strip='gen-budeul', atk='slash', atk8=True, act=True, legacy=(('a', 1), ('a', 3), ('b', 2), ('b', 4))),   # 골벌 부들(단검 · 가슴 L)
     'gabi': dict(hit=True, strip='gen-base-w-53-hwanna-gabi', atk='slash', atk8=True, act=True, legacy=(('a', 1), ('a', 3), ('b', 2), ('b', 4))),   # 환나 가비(단검 · 가슴 L)
@@ -203,7 +208,7 @@ def to_act(c):
 
 def groups(h, ncell):
     g = ['stand:stand:0-3', 'walk:walk:4-11', 'attack:attack:12-17']
-    if ncell >= 26:
+    if ncell - (4 if h.get('hit') else 0) >= 26:   # 맞음 네 칸이 붙은 개성 동작 없는 장수(20+쓰러짐 2+맞음 4=26)를 개성 동작으로 세지 않는다
         g.append('quirk:misc:22-25')
     if h['atk8'] and ncell >= 34:
         g.append('attack8:attack:26-33')
